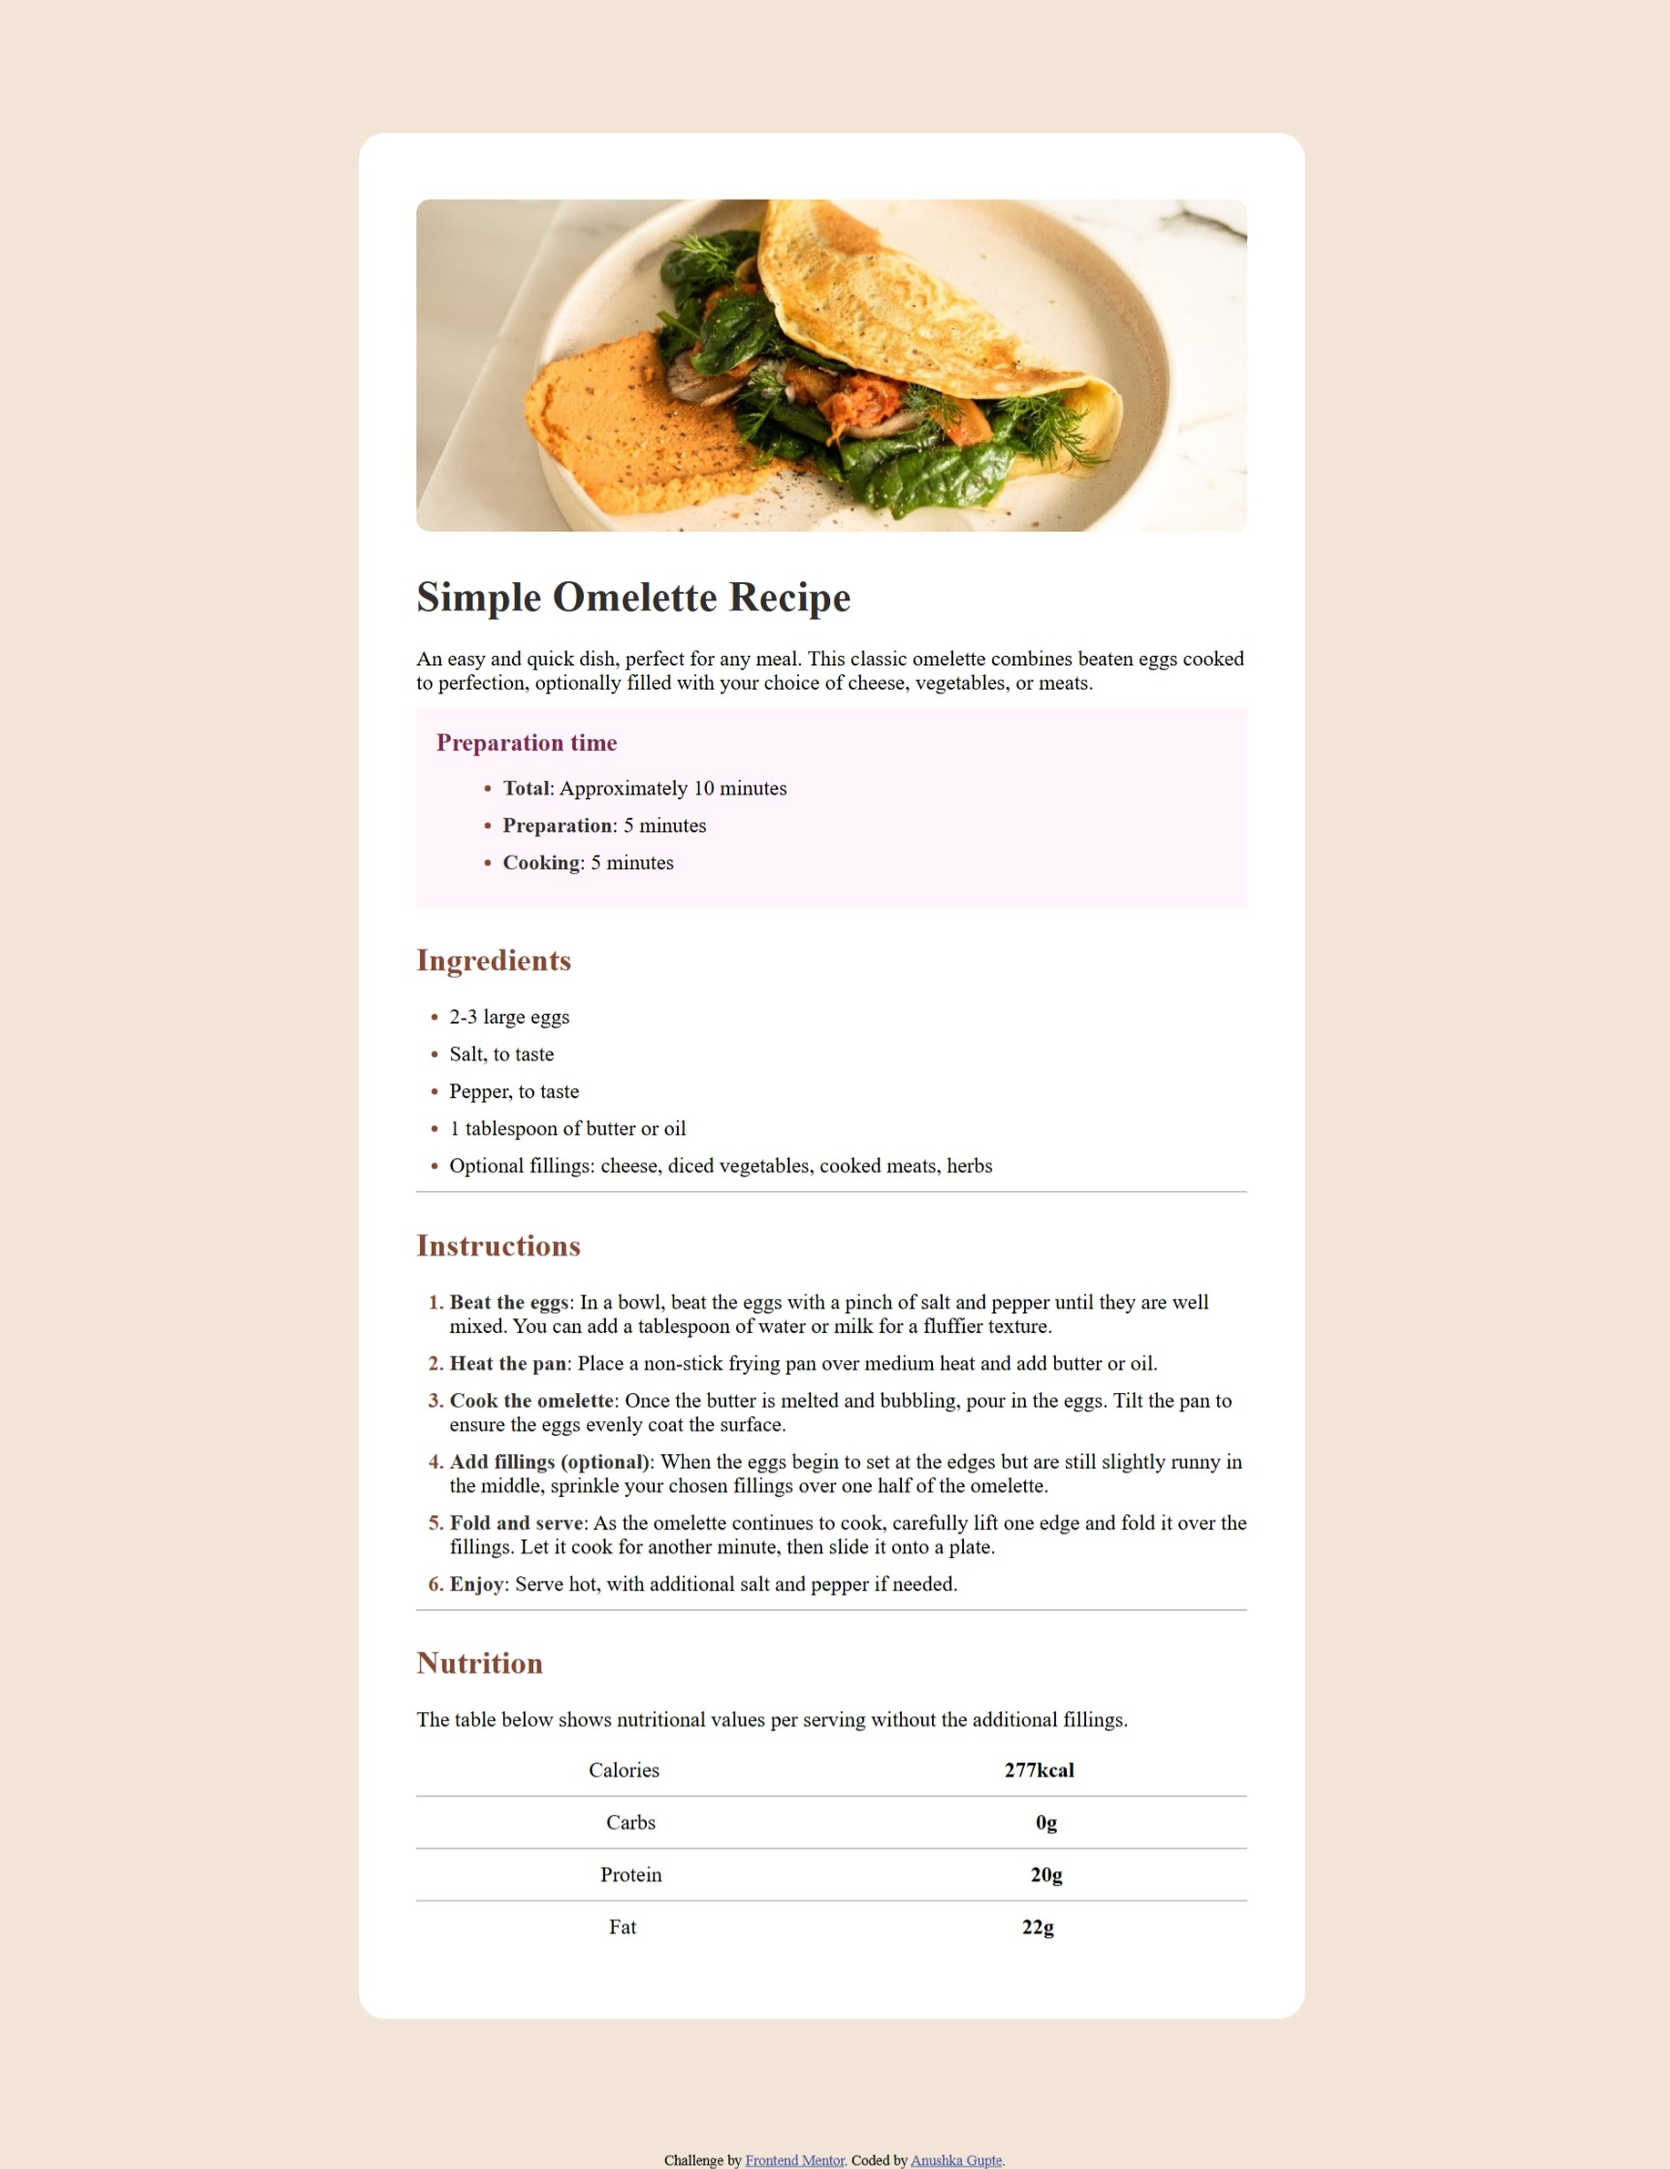
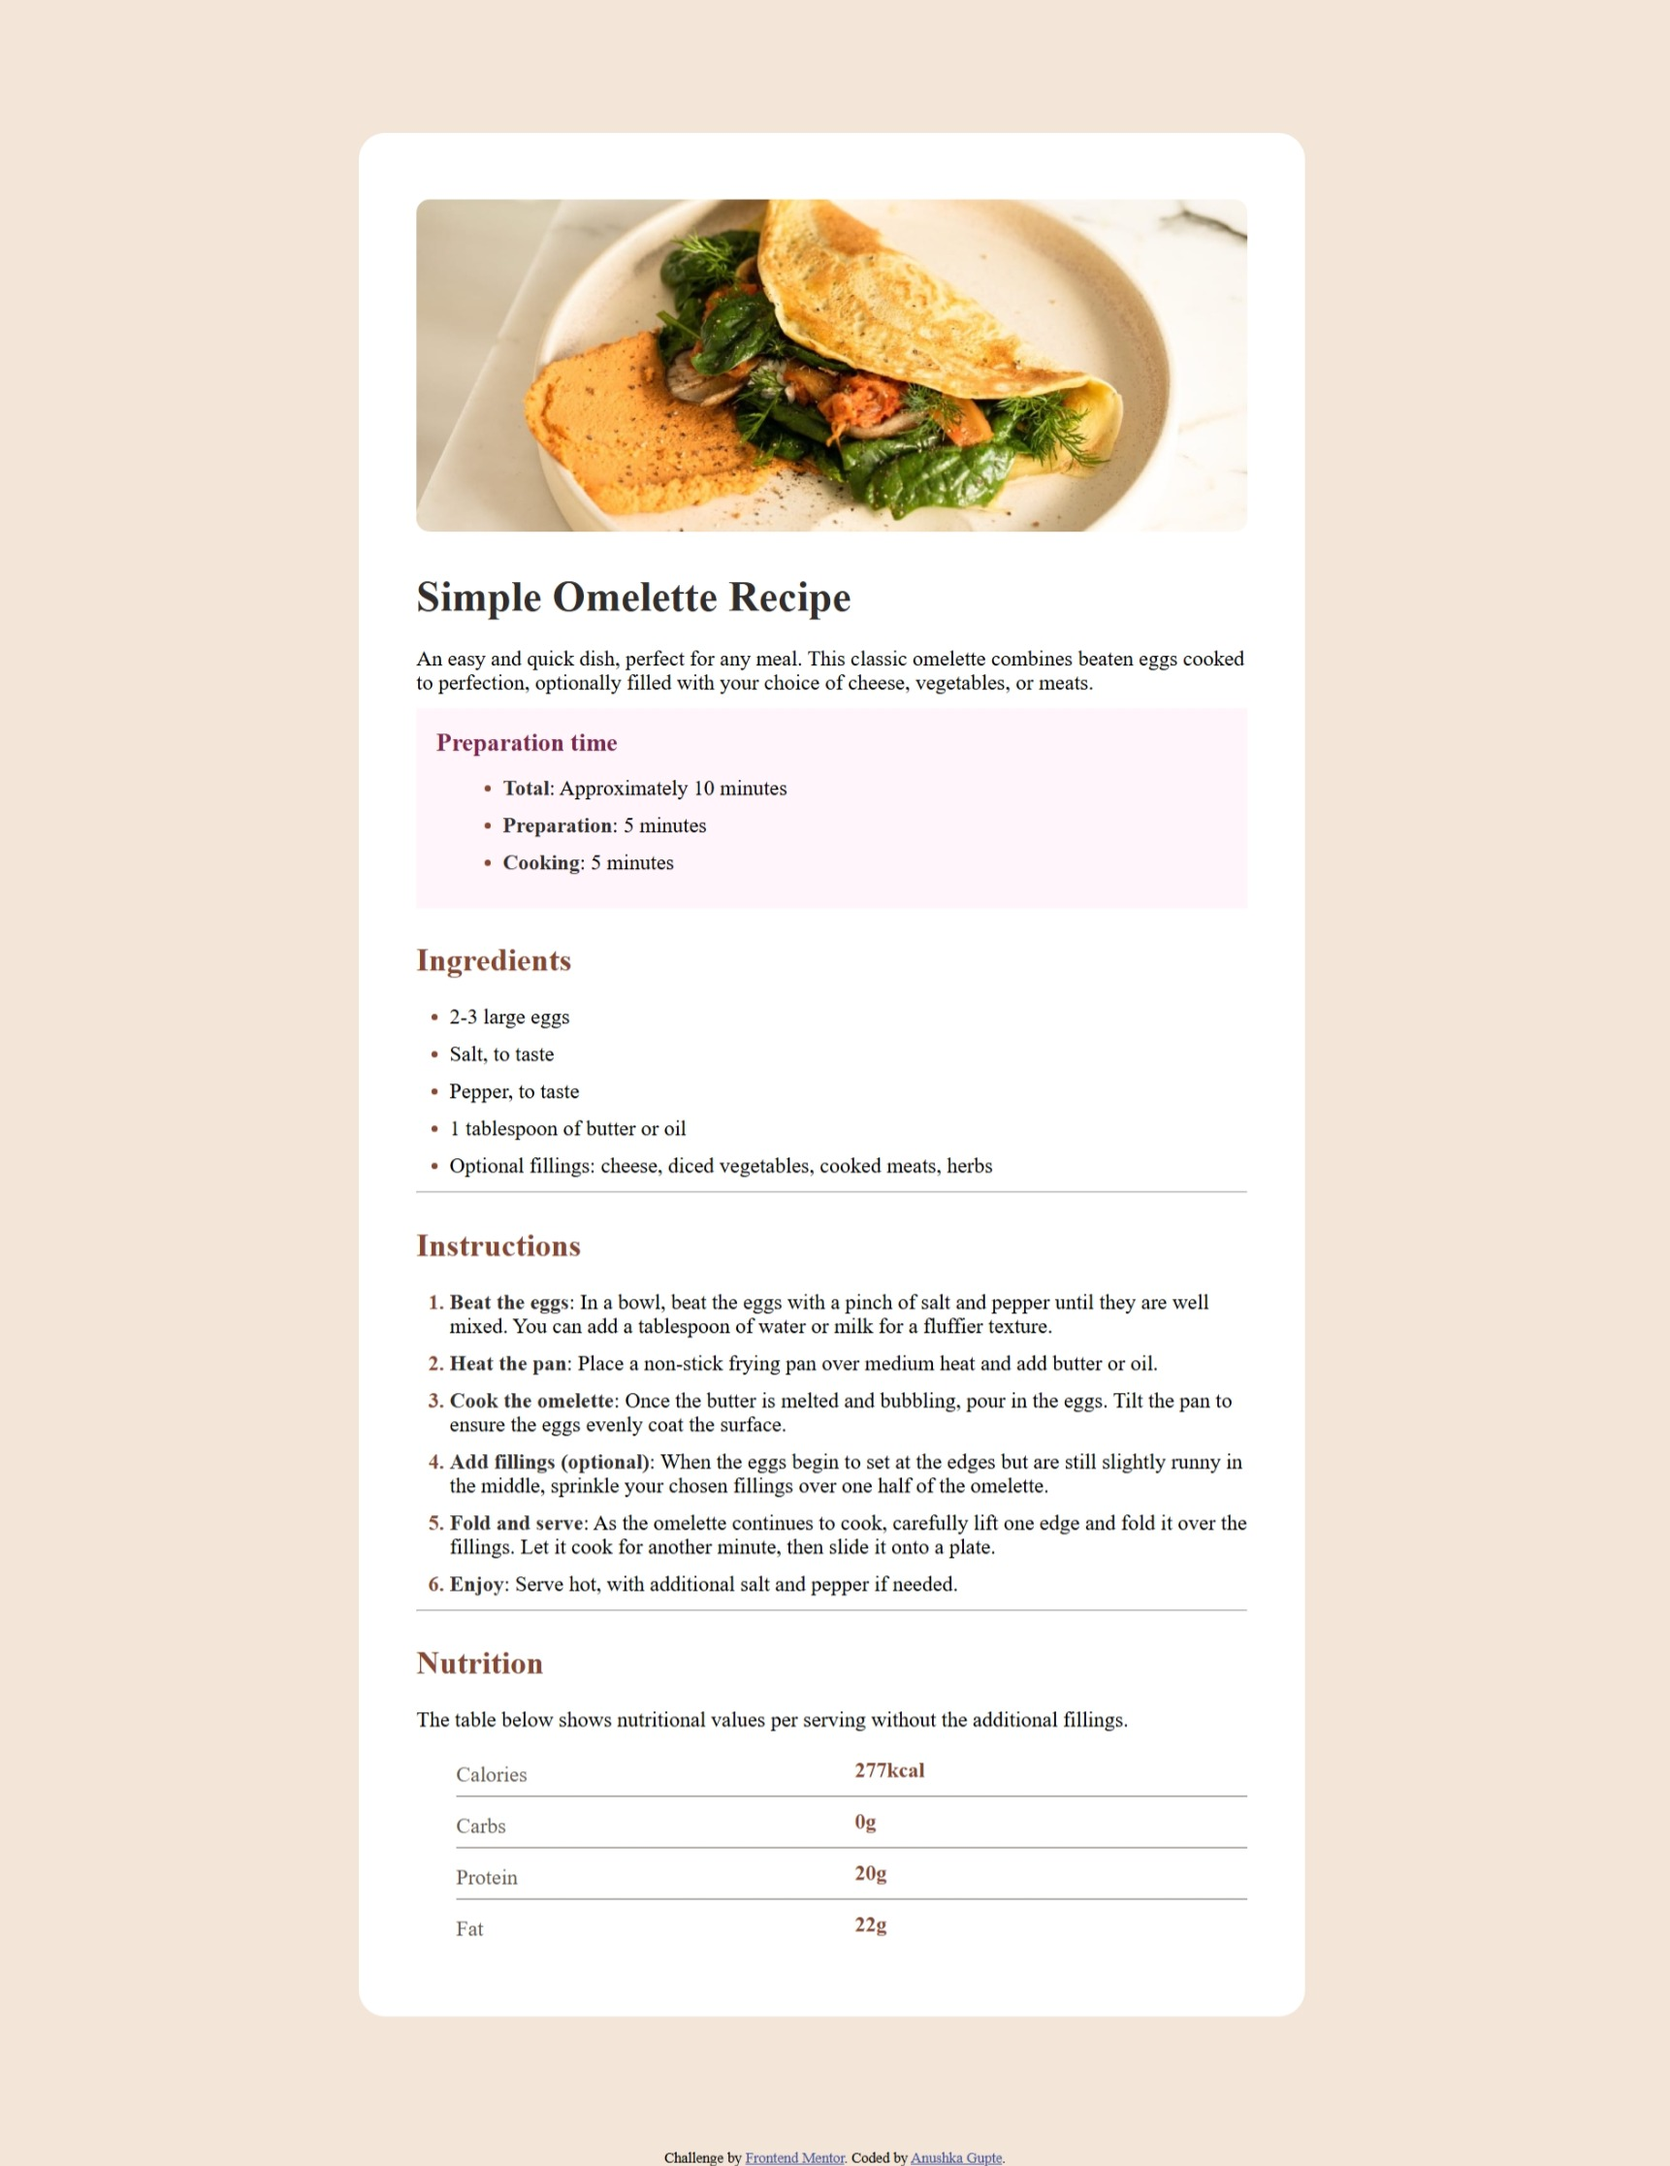
Update

diff --git a/Projects/RecipePage/index.html b/Projects/RecipePage/index.html
@@ -65,27 +65,24 @@
 
   <p>The table below shows nutritional values per serving without the additional fillings.</p>
   <div id="two">
-    <div id="three">
-      <div id="n1">
-    <p>Calories</p>
-    <p><b>277kcal</b></p>
-    </div>
-    <hr style="color: hsl(24, 5%, 18%);">
-    <div id="n2">
-    <p>Carbs</p>
-    <p><b>0g</b></p>
-    </div>
-    <hr style="color: hsl(24, 5%, 18%);">
-    <div id="n3">
-    <p>Protein</p>
-    <p><b>20g</b></p>
-    </div>
-    <hr style="color: hsl(24, 5%, 18%);">
-    <div id="n4">
-    <p>Fat</p>
-    <p><b>22g</b></p>
-    </div>
-  </div>
+    <table style="border-collapse: collapse; width: 100%;">
+      <tr>
+        <td style="padding: 10px 0px 4px 0; border-bottom: 0.25px solid hsl(30, 10%, 34%); color: hsl(30, 10%, 34%);">Calories</td>
+        <td style="padding: 10px 0; color: hsl(14, 45%, 36%); border-bottom: 1px solid hsl(30, 10%, 34%);"><b>277kcal</b></td>
+      </tr>
+      <tr>
+        <td style="padding: 10px 0px 4px 0; border-bottom: 1px solid hsl(30, 10%, 34%); color: hsl(30, 10%, 34%);">Carbs</td>
+        <td style="padding: 10px 0; color: hsl(14, 45%, 36%); border-bottom: 1px solid hsl(30, 10%, 34%);"><b>0g</b></td>
+      </tr>
+      <tr>
+        <td style="padding: 10px 0px 4px 0; border-bottom: 1px solid hsl(30, 10%, 34%); color: hsl(30, 10%, 34%);">Protein</td>
+        <td style="padding: 10px 0; color: hsl(14, 45%, 36%); border-bottom: 1px solid hsl(30, 10%, 34%);"><b>20g</b></td>
+      </tr>
+      <tr>
+      <td style="padding: 10px 0px 4px 0; color: hsl(30, 10%, 34%);">Fat</td>
+      <td style="padding: 10px 0; color: hsl(14, 45%, 36%);"><b>22g</b></td>
+    </tr>
+    </table>
   </div>
   </div>
   </div>

diff --git a/Projects/RecipePage/style.css b/Projects/RecipePage/style.css
@@ -62,17 +62,14 @@ h2 {
     justify-content: space-between;
     align-items: center;
 }
-#n1,#n2,#n3,#n4 {
-    display: flex;
-    justify-content: space-around;
-    align-items: center;
-}
 li::marker {
     color: hsl(14, 45%, 36%);
 }
 ol > li::marker {
     font-weight: bold;
 }
-#n1,#n2,#n3,#n4 > p {
-    text-align: left;
+#two {
+    display: flex;
+    justify-content: left;
+    margin-left: 30px;
 }
